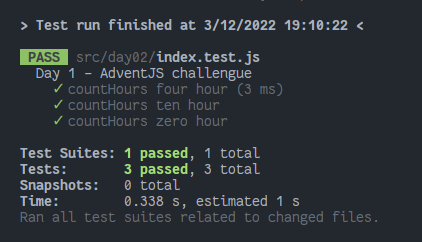
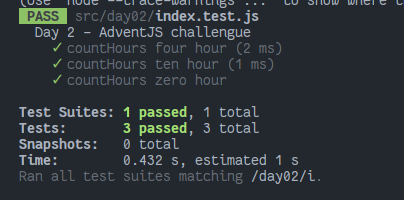
⚒  add challengue day03

Changed region(s): [[0.0297, 0.0, 0.8911, 0.93], [0.6832, 0.0, 1.0, 0.03]]

diff --git a/src/day03/index.test.js b/src/day03/index.test.js
@@ -1,0 +1,28 @@
+import distributeGifts from './index'
+
+const cases = [
+  {
+    title: 'it should return 1 if reindeers cant carry gift',
+    packOfGifts: ['a', 'b', 'c'],
+    reindeers: ['d', 'e'],
+    expected: 1
+  },
+  {
+    title: 'it should return 0 if reindeers cant\'t carry gift',
+    packOfGifts: ['videogames', 'console'],
+    reindeers: ['midu'],
+    expected: 0
+  },
+  {
+    title: 'it should return 0 if reindeers cant\'t carry gift',
+    packOfGifts: ['music'],
+    reindeers: ['midudev', 'pheralb', 'codingwithdani', 'carlosble', 'blasco', 'facundocapua', 'madeval', 'memxd'],
+    expected: 26
+  }
+]
+
+describe('Day 3 - AdventJS challengue', () => {
+  test.each(cases)('$title', ({ packOfGifts, reindeers, expected }) => {
+    expect(distributeGifts(packOfGifts, reindeers)).toEqual(expected)
+  })
+})

diff --git a/src/day03/index.js b/src/day03/index.js
@@ -1,0 +1,12 @@
+/**
+ * It takes two arrays, one of gifts and one of reindeers, and returns the number of gifts each
+ * reindeer should get
+ * @param {string[]} packOfGifts - an array of strings, each string representing a gift
+ * @param {string[]} reindeers - an array of reindeer names
+ * @returns The number of gifts that each reindeer will get.
+ */
+export default function distributeGifts (packOfGifts, reindeers) {
+  const packWeight = packOfGifts.join('').length
+  const reindeersWeight = reindeers.join('').length * 2
+  return Math.floor(reindeersWeight / packWeight)
+}

diff --git a/src/day02/index.test.js b/src/day02/index.test.js
@@ -22,7 +22,7 @@ const cases = [
 
 ]
 
-describe('Day 1 - AdventJS challengue', () => {
+describe('Day 2 - AdventJS challengue', () => {
   test.each(cases)('$title', ({ year, holidays, expected }) => {
     expect(countHours(year, holidays)).toEqual(expected)
   })

diff --git a/src/day03/README.md b/src/day03/README.md
@@ -1,0 +1,50 @@
+# Nobody wants to do extra hours at work
+
+### Solution
+
+```javascript
+export default function distributeGifts (packOfGifts, reindeers) {
+  const packWeight = packOfGifts.join('').length
+  const reindeersWeight = reindeers.join('').length * 2
+  return Math.floor(reindeersWeight / packWeight)
+}
+```
+
+### Test
+
+```javascript
+import distributeGifts from './index'
+
+const cases = [
+  {
+    title: 'it should return 1 if reindeers cant carry gift',
+    packOfGifts: ['a', 'b', 'c'],
+    reindeers: ['d', 'e'],
+    expected: 1
+  },
+  {
+    title: 'it should return 0 if reindeers cant\'t carry gift',
+    packOfGifts: ['videogames', 'console'],
+    reindeers: ['midu'],
+    expected: 0
+  },
+  {
+    title: 'it should return 0 if reindeers cant\'t carry gift',
+    packOfGifts: ['music'],
+    reindeers: ['midudev', 'pheralb', 'codingwithdani', 'carlosble', 'blasco', 'facundocapua', 'madeval', 'memxd'],
+    expected: 26
+  }
+]
+
+describe('Day 2 - AdventJS challengue', () => {
+  test.each(cases)('$title', ({ packOfGifts, reindeers, expected }) => {
+    expect(distributeGifts(packOfGifts, reindeers)).toEqual(expected)
+  })
+})
+```
+
+### Screenshot
+
+![Test](./test.png)
+
+[Back to the table of challengues](/README.md)

diff --git a/src/day02/README.md b/src/day02/README.md
@@ -44,7 +44,7 @@ const cases = [
 
 ]
 
-describe('Day 1 - AdventJS challengue', () => {
+describe('Day 2 - AdventJS challengue', () => {
   test.each(cases)('$title', ({ year, holidays, expected }) => {
     expect(countHours(year, holidays)).toEqual(expected)
   })
